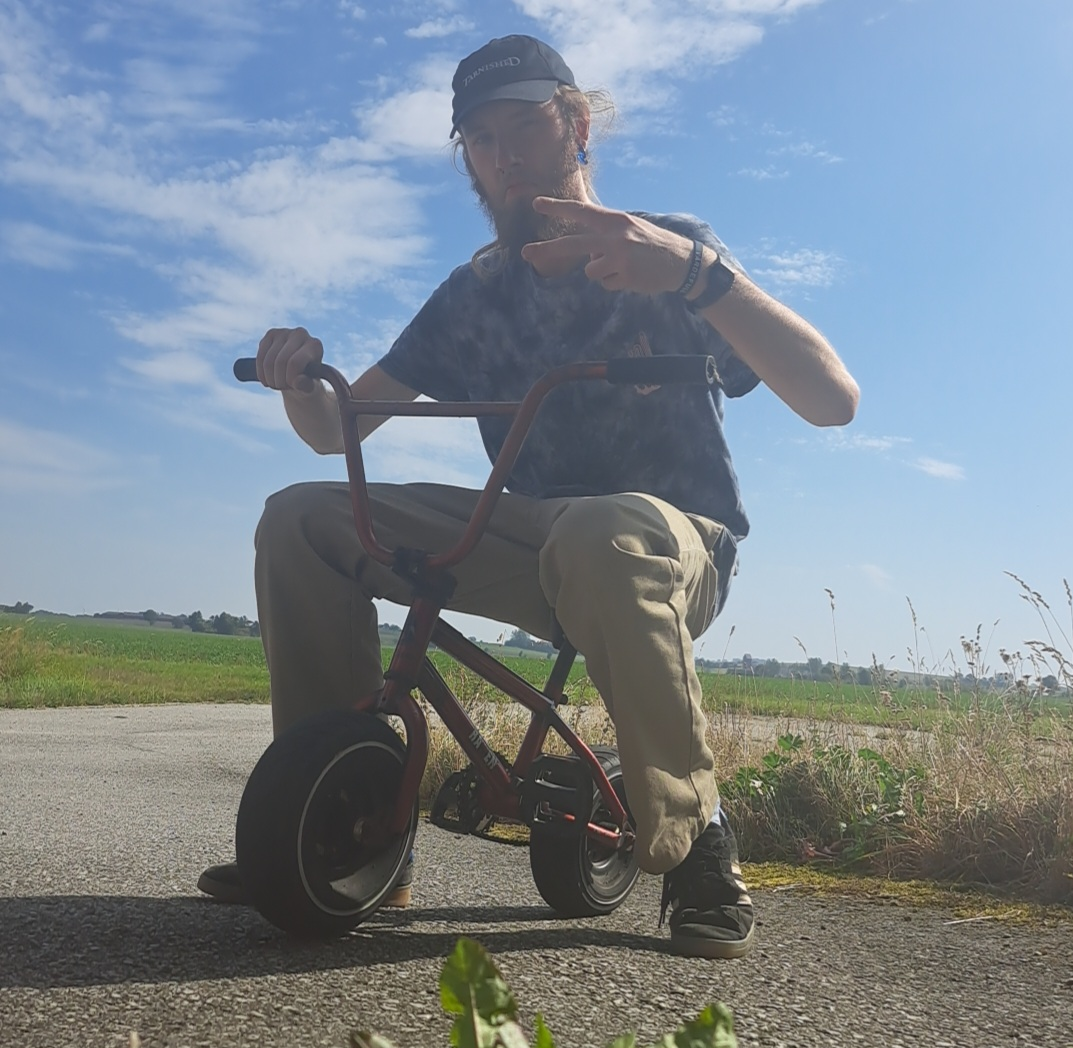
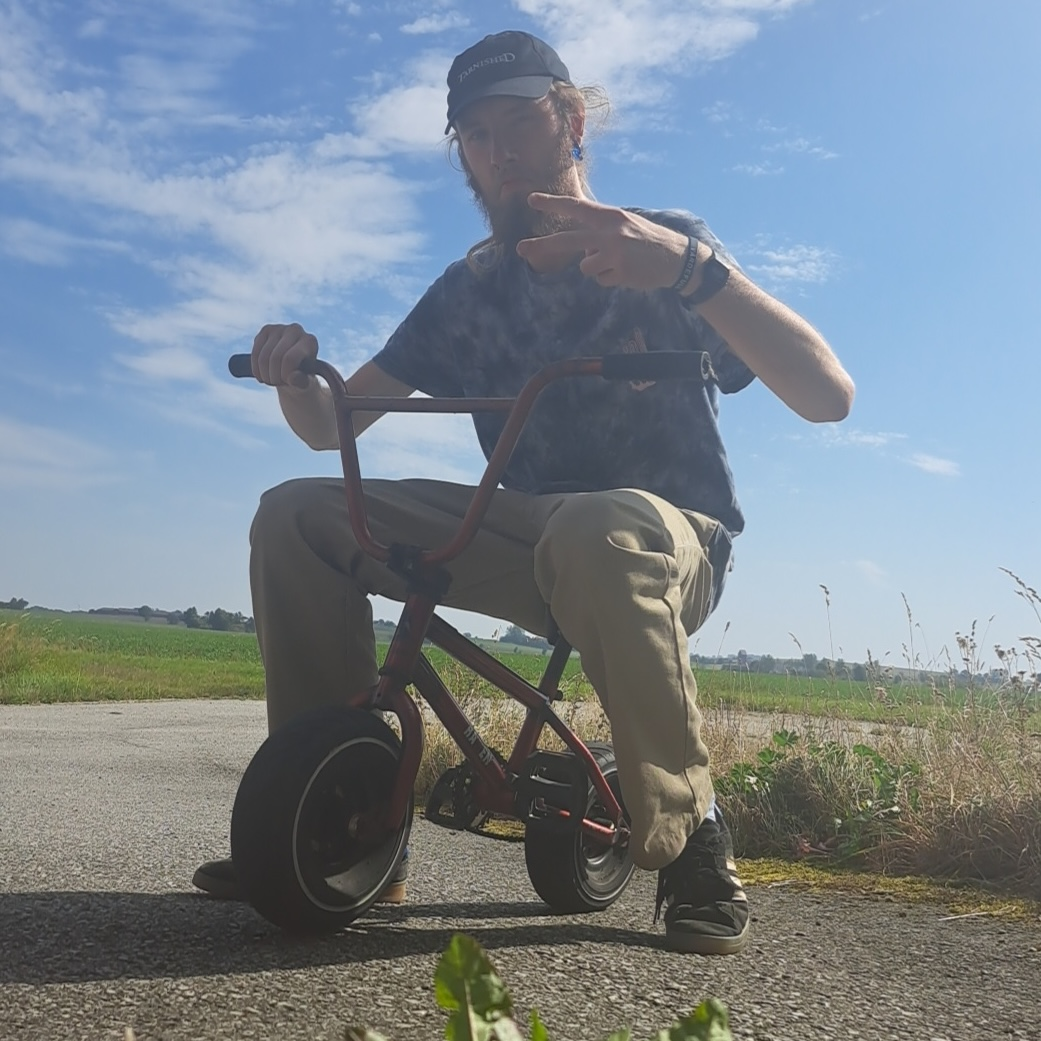
nya bilder

diff --git a/Mer-om-mig.html b/Mer-om-mig.html
@@ -21,18 +21,18 @@
 
     <section>
         <figure>
-            <img src="bilder/bild-med-djur.JPEG" alt="Bild på Albin med djur" style="max-width: 100%">
-            <figcaption>En djurvän</figcaption>
+            <img src="bilder/bild-med-djur.JPEG" alt="Bild på Albin med djur" class="merommig-jpg" style="max-width: 100%">
+            <figcaption>En Djurvän</figcaption>
         </figure>
 
         <figure>
-            <img src="bilder/bild-med-mini-bmx.jpg" alt="Bild på Albin med mini-bmx" style="max-width: 100%">
-            <figcaption>En extremsport utövare</figcaption>
+            <img src="bilder/bild-med-mini-bmx.jpg" alt="Bild på Albin med mini-bmx" class="merommig-jpg" style="max-width: 100%">
+            <figcaption>En Extremsport Utövare</figcaption>
         </figure>
 
         <figure>
-            <img src="bilder/Bild-med-vän.jpg" alt="Bild på Albin med vän" style="max-width: 100%">
-            <figcaption>En vän</figcaption>
+            <img src="bilder/Bild-med-kamrat.jpg" alt="Bild på Albin med vän" class="merommig-jpg" style="max-width: 100%">
+            <figcaption>En Kamrat</figcaption>
         </figure>
     </section>
 

diff --git a/style.css b/style.css
@@ -37,33 +37,31 @@ section {
 }
 figure {
     display: inline-block;
-    position: relative;
     background-color: brown;   
     border: 5px blue;
-}
-img {
-    display: inline-block;
-    position: relative;
-    margin-right: 10px;
     column-span: 1;
 }
+.merommig-jpg {
+    display: block;
+    position: relative;
+    margin-right: 10px;
+}
 .homepage-jpg {
-    display: inline-block;
+    display: block;
     position: relative;
     margin-right: 10px;
     column-span: 2;
 }
 
 figcaption {
-    position: absolute;
-    bottom: -20px;
+    text-align: center;
     margin-left: 10px;
+    bottom: -20px;
 }
 article {
     max-width: 50%;
-    display: inline;
+    display: block;
     text-align: center;
-    float: bottom;
 }
 
 footer {
